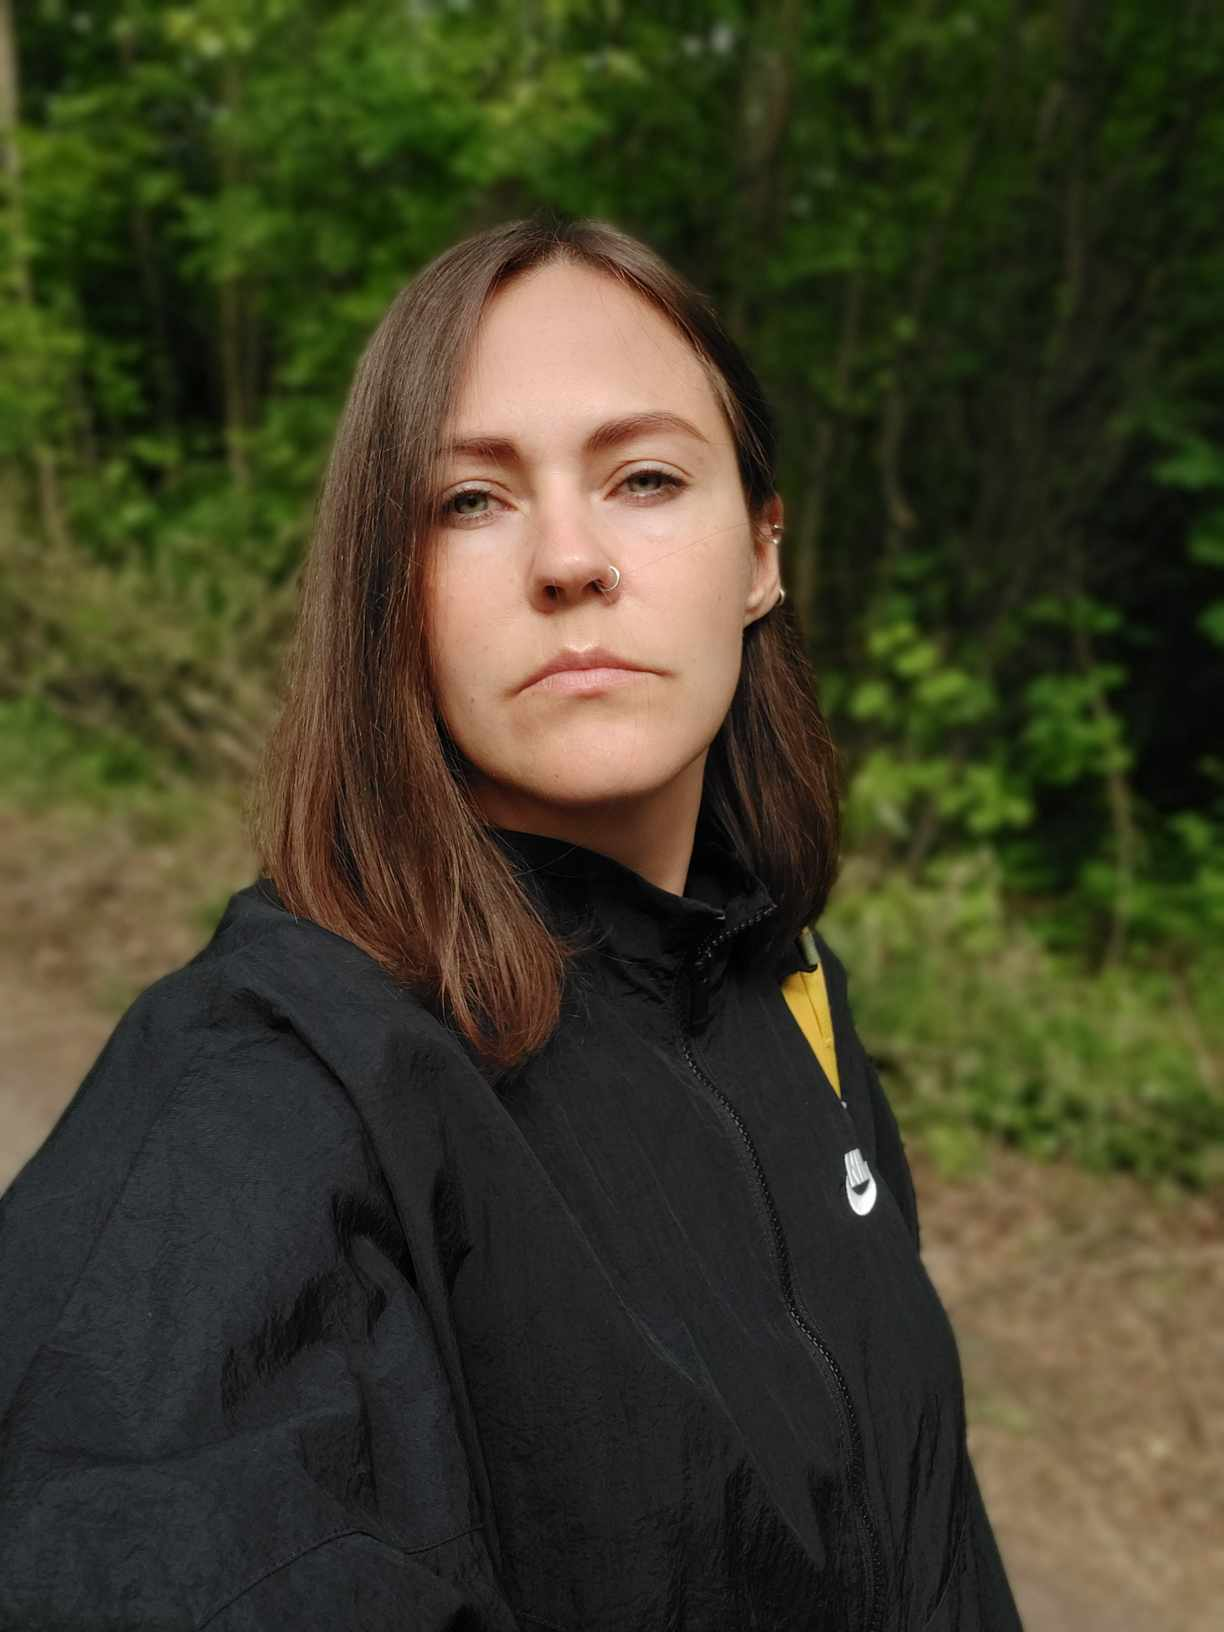
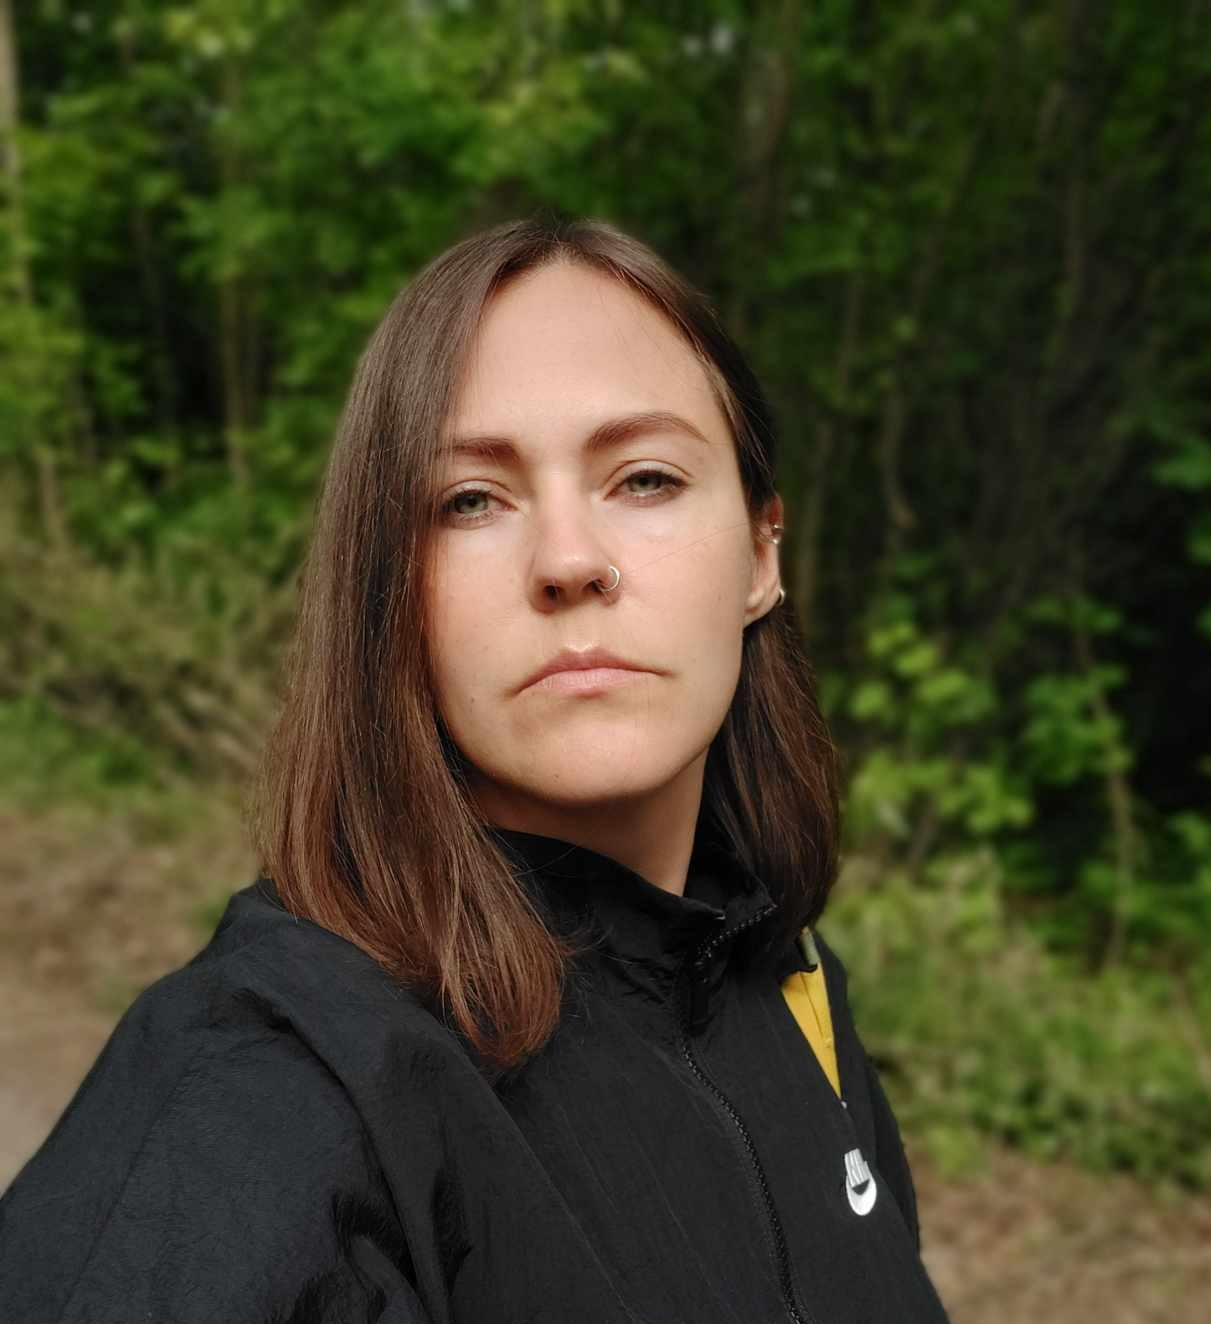
feat: added new html

diff --git a/style.css b/style.css
@@ -9,3 +9,211 @@ html {
     width: 100%;
   }
 }
+.nav-list {
+  list-style: none;
+  font-weight: 300;
+  font-size: 16px;
+  font-family: Roboto;
+  display: flex;
+  background-color:rgb(48, 61, 26);
+
+}
+.nav-link {
+  list-style: none;
+  padding: 0 20px;
+  line-height: 50px;
+  transition: .3s;
+  text-decoration: none;
+  color: rgb(156, 186, 108);
+}
+
+.nav-link:hover {
+  color: rgb(117, 142, 77);
+}
+.nav-item {
+  list-style: none;
+  font-weight: 300;
+  font-size: 16px;
+  font-family: Roboto;
+  color: rgb(48, 61, 26);
+}
+
+.header_wrapper{
+  background-color:rgb(222, 246, 180);
+}
+.body {
+  width: 100%;
+  font-family: Roboto, sans-serif;
+  min-height: 100vh;
+  margin: 0; padding: 0;
+  display: flex;
+  flex-direction: column;
+  justify-content: space-between;
+}
+.avatar {
+  width: 40%;
+  background-repeat: no-repeat;
+padding-left: 40px;
+}
+
+.name {
+  width: 60%;
+}
+
+.left_column {
+  width: 40%;
+}
+.main_column{
+  width: 60%;
+}
+.wrapper {
+  max-width: 1200px;
+  margin: 0 auto;
+}
+.header_container {
+  max-width: 1440px;
+  margin: 0 auto;
+}
+
+.header_wrapper{
+  display: flex;
+}
+.main_container {
+  max-width: 1440px;
+  margin: 0 auto;
+  display: flex;
+  flex-wrap: wrap;
+  background-color:white;
+  font-size: 14px;
+font-weight: 900;
+font-family: Roboto;
+color: rgb(48, 61, 26);
+}
+.text {
+  padding-left: 80px;
+  padding-right: 80px;
+  text-align: justify;
+} 
+.footer_container {
+  max-width: 1440px;
+  margin: 0 auto;
+  background-color:rgb(213, 244, 159);
+}
+
+.nav-list {
+  display: flex;
+  justify-content: flex-end;
+  align-items: center;
+}
+.title {
+font-size: 32px;
+font-weight: 900;
+font-family: Roboto;
+color: rgb(48, 61, 26);
+padding-left: 80px;
+}
+.section-subtitle {
+font-size: 16px;
+font-family: Roboto;
+color: darkolivegreen;
+text-transform: uppercase;
+padding-left: 45px;
+padding-top: 20px;
+}
+
+.section-title {
+  font-size: 20px;
+  font-family: Roboto;
+  color: rgb(48, 61, 26);
+  font-weight: 600;
+  padding-left: 100px;
+}
+.subtitle {
+  font-size: 16px;
+  font-family: Roboto;
+  color: rgb(48, 61, 26);
+  font-weight: 900;
+  padding-left: 20px; 
+}
+
+.contact_menu {
+  list-style: none;
+font-size: 14px;
+font-family: Roboto;
+color: rgb(48, 61, 26);
+font-weight: 600;
+display: flex;
+flex-direction: column;
+}
+
+.contact_menu_item {
+display: flex;
+padding: 5px;
+}
+
+.contact__link {
+  text-decoration: none;
+  color: rgb(48, 61, 26);
+}
+.contact__link:hover {
+  color: rgb(119, 146, 74);
+}
+
+.contact_img {
+ margin-right: 15px;
+}
+.skills {
+font-size: 16px;
+font-family: Roboto;
+color: rgb(28, 36, 15);
+font-weight: 600;
+}
+.hard_skills {
+  list-style: disc;
+}
+.soft_skills {
+list-style: disc;
+}
+
+.in_progress_skills {
+  list-style: circle;
+}
+.line {
+  border-bottom: 0.8px solid rgb(170, 190, 139);
+}
+.code {
+margin-left: 50px;
+padding-left: 50px;
+font-size: 14px;
+font-family: Roboto;
+color: rgb(48, 61, 26);
+font-weight: 600;
+}
+.section_code {
+  background-color:rgb(222, 246, 180);
+  display: flex;
+  flex-direction: column;
+  align-items: center;
+}
+
+.footer__image {
+  width: 80px;
+  padding-top: 10px;
+}
+.footer_container {
+  list-style: none;
+  font-weight: 300;
+  font-size: 16px;
+  font-family: Roboto;
+  display: flex;
+  background-color:rgb(48, 61, 26);
+  justify-content: space-evenly;
+  margin: 20px 0px 20px 0px;
+}
+.footer_block {
+  list-style: none;
+  line-height: 50px;
+  transition: .3s;
+  text-decoration: none;
+  color: rgb(156, 186, 108);
+}

diff --git a/index.html b/index.html
@@ -5,7 +5,7 @@
   <meta http-equiv="X-UA-Compatible" content="IE=edge">
   <meta name="viewport" content="width=device-width, initial-scale=1.0">
   <link rel="stylesheet" href="style.css">
-  <link rel="icon" href="assets/favicon.ico">
+  <link rel="icon" href="assets/rs_school.ico">
   <link rel="preconnect" href="https://fonts.googleapis.com">
   <link rel="preconnect" href="https://fonts.gstatic.com" crossorigin>
   <link href="https://fonts.googleapis.com/css2?family=Roboto:wght@100&display=swap" rel="stylesheet">
@@ -29,7 +29,7 @@
     <div class="header_wrapper">
         <div class="avatar">
 
-          <img src="./assets/img/dina.jpg" alt="avatar" style="width: 200px;height: 200px; border-radius: 100px;">
+          <img src="./assets/img/dina.jpg" alt="avatar" style="width: 190px;height:190px; border-radius: 100px;">
         </div>
         
         <section class="name" id="name">
@@ -197,9 +197,9 @@
       <a href="https://github.com/kitkakvitka" target="_blank" class="footer_block">My github</a>
      </div>
      <div class="footer_block">
-       <div class="footer_img"> <a href="https://rs.school/js/" class="footer_link"> <img src="./assets/img/rs_school_js.svg" class="footer__image" alt=""></a> </div>
+       <div class="footer_img"> <a href="https://rs.school/courses/javascript" class="footer_link"> <img src="./assets/img/rs_school.png" class="footer__image" alt=""></a> </div>
      </div>	
-     <div class="footer_block"> 2022 </div>
+     <div class="footer_block"> 2024 </div>
   </div>			
   </footer>
   </div>
